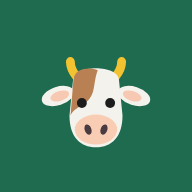
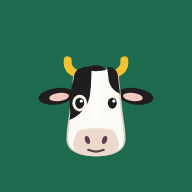
v2.8: gebe simgesi ve uygulama simgesi yeni inek başı
Claude-Session: https://claude.ai/code/session_017f4vncvokBe8tVfHc6Eyy9

Changed region(s): [[0.1875, 0.2812, 0.8125, 0.8438]]

diff --git a/index.html b/index.html
@@ -215,7 +215,7 @@ svg{fill:none;stroke:currentColor;stroke-width:1.8;stroke-linecap:round;stroke-l
 .sheet-body h2{font:600 22px/1 var(--display);letter-spacing:.03em;text-transform:uppercase;color:var(--fg);margin:0}
 #toast{position:fixed;left:50%;transform:translateX(-50%);bottom:calc(84px + env(safe-area-inset-bottom,0px));z-index:60;background:var(--fg);color:var(--bg);padding:10px 14px;border-radius:10px;font-size:14px;max-width:min(92vw,420px)}
 @media (prefers-reduced-motion:no-preference){.sheet-body{animation:up .18s ease-out}@keyframes up{from{transform:translateY(24px);opacity:.4}}}
-.gd details{border-top:1px solid var(--line);padding:8px 0}.gd summary{font-weight:700;cursor:pointer}.gd p{font-size:14px;line-height:1.5;margin:6px 0}.gd ol{padding-left:20px;margin:6px 0}.gd li{font-size:14px;line-height:1.5;margin:4px 0}.gd .tip{background:var(--surface2);border-radius:10px;padding:8px 10px;font-size:13px;line-height:1.45;margin:8px 0}.gd figure{margin:10px 0}.gd figure img{width:100%;max-width:340px;border-radius:10px;border:1px solid var(--line);display:block}.gd figcaption{font-size:12px;color:var(--muted);margin-top:4px}.gd ol{padding-left:20px;margin:6px 0}.gd li{font-size:14px;line-height:1.5;margin:4px 0}.gd .tip{background:var(--surface2);border-radius:10px;padding:8px 10px;font-size:13px;line-height:1.45;margin:8px 0}.gd figure{margin:10px 0}.gd figure img{width:100%;max-width:340px;border-radius:10px;border:1px solid var(--line);display:block}.gd figcaption{font-size:12px;color:var(--muted);margin-top:4px}.gd ol{padding-left:20px;margin:6px 0}.gd li{font-size:14px;line-height:1.5;margin:4px 0}.gd .tip{background:var(--surface2);border-radius:10px;padding:8px 10px;font-size:13px;line-height:1.45;margin:8px 0}.gd figure{margin:10px 0}.gd figure img{width:100%;max-width:340px;border-radius:10px;border:1px solid var(--line);display:block}.gd figcaption{font-size:12px;color:var(--muted);margin-top:4px}.gd ol{padding-left:20px;margin:6px 0}.gd li{font-size:14px;line-height:1.5;margin:4px 0}.gd .tip{background:var(--surface2);border-radius:10px;padding:8px 10px;font-size:13px;line-height:1.45;margin:8px 0}.gd figure{margin:10px 0}.gd figure img{width:100%;max-width:340px;border-radius:10px;border:1px solid var(--line);display:block}.gd figcaption{font-size:12px;color:var(--muted);margin-top:4px}.gd ol{padding-left:20px;margin:6px 0}.gd li{font-size:14px;line-height:1.5;margin:4px 0}.gd .tip{background:var(--surface2);border-radius:10px;padding:8px 10px;font-size:13px;line-height:1.45;margin:8px 0}.gd figure{margin:10px 0}.gd figure img{width:100%;max-width:340px;border-radius:10px;border:1px solid var(--line);display:block}.gd figcaption{font-size:12px;color:var(--muted);margin-top:4px}.gd ol{padding-left:20px;margin:6px 0}.gd li{font-size:14px;line-height:1.5;margin:4px 0}.gd .tip{background:var(--surface2);border-radius:10px;padding:8px 10px;font-size:13px;line-height:1.45;margin:8px 0}.gd figure{margin:10px 0}.gd figure img{width:100%;max-width:340px;border-radius:10px;border:1px solid var(--line);display:block}.gd figcaption{font-size:12px;color:var(--muted);margin-top:4px}.gd ol{padding-left:20px;margin:6px 0}.gd li{font-size:14px;line-height:1.5;margin:4px 0}.gd .tip{background:var(--surface2);border-radius:10px;padding:8px 10px;font-size:13px;line-height:1.45;margin:8px 0}.gd figure{margin:10px 0}.gd figure img{width:100%;max-width:340px;border-radius:10px;border:1px solid var(--line);display:block}.gd figcaption{font-size:12px;color:var(--muted);margin-top:4px}.gd ol{padding-left:20px;margin:6px 0}.gd li{font-size:14px;line-height:1.5;margin:4px 0}.gd .tip{background:var(--surface2);border-radius:10px;padding:8px 10px;font-size:13px;line-height:1.45;margin:8px 0}.gd figure{margin:10px 0}.gd figure img{width:100%;max-width:340px;border-radius:10px;border:1px solid var(--line);display:block}.gd figcaption{font-size:12px;color:var(--muted);margin-top:4px}.gd ol{padding-left:20px;margin:6px 0}.gd li{font-size:14px;line-height:1.5;margin:4px 0}.gd .tip{background:var(--surface2);border-radius:10px;padding:8px 10px;font-size:13px;line-height:1.45;margin:8px 0}.gd figure{margin:10px 0}.gd figure img{width:100%;max-width:340px;border-radius:10px;border:1px solid var(--line);display:block}.gd figcaption{font-size:12px;color:var(--muted);margin-top:4px}.gd ol{padding-left:20px;margin:6px 0}.gd li{font-size:14px;line-height:1.5;margin:4px 0}.gd .tip{background:var(--surface2);border-radius:10px;padding:8px 10px;font-size:13px;line-height:1.45;margin:8px 0}.gd figure{margin:10px 0}.gd figure img{width:100%;max-width:340px;border-radius:10px;border:1px solid var(--line);display:block}.gd figcaption{font-size:12px;color:var(--muted);margin-top:4px}.gd ol{padding-left:20px;margin:6px 0}.gd li{font-size:14px;line-height:1.5;margin:4px 0}.gd .tip{background:var(--surface2);border-radius:10px;padding:8px 10px;font-size:13px;line-height:1.45;margin:8px 0}.gd figure{margin:10px 0}.gd figure img{width:100%;max-width:340px;border-radius:10px;border:1px solid var(--line);display:block}.gd figcaption{font-size:12px;color:var(--muted);margin-top:4px}.gd ol{padding-left:20px;margin:6px 0}.gd li{font-size:14px;line-height:1.5;margin:4px 0}.gd .tip{background:var(--surface2);border-radius:10px;padding:8px 10px;font-size:13px;line-height:1.45;margin:8px 0}.gd figure{margin:10px 0}.gd figure img{width:100%;max-width:340px;border-radius:10px;border:1px solid var(--line);display:block}.gd figcaption{font-size:12px;color:var(--muted);margin-top:4px}.gd ol{padding-left:20px;margin:6px 0}.gd li{font-size:14px;line-height:1.5;margin:4px 0}.gd .tip{background:var(--surface2);border-radius:10px;padding:8px 10px;font-size:13px;line-height:1.45;margin:8px 0}.gd figure{margin:10px 0}.gd figure img{width:100%;max-width:340px;border-radius:10px;border:1px solid var(--line);display:block}.gd figcaption{font-size:12px;color:var(--muted);margin-top:4px}.gd ol{padding-left:20px;margin:6px 0}.gd li{font-size:14px;line-height:1.5;margin:4px 0}.gd .tip{background:var(--surface2);border-radius:10px;padding:8px 10px;font-size:13px;line-height:1.45;margin:8px 0}.gd figure{margin:10px 0}.gd figure img{width:100%;max-width:340px;border-radius:10px;border:1px solid var(--line);display:block}.gd figcaption{font-size:12px;color:var(--muted);margin-top:4px}.gd ol{padding-left:20px;margin:6px 0}.gd li{font-size:14px;line-height:1.5;margin:4px 0}.gd .tip{background:var(--surface2);border-radius:10px;padding:8px 10px;font-size:13px;line-height:1.45;margin:8px 0}.gd figure{margin:10px 0}.gd figure img{width:100%;max-width:340px;border-radius:10px;border:1px solid var(--line);display:block}.gd figcaption{font-size:12px;color:var(--muted);margin-top:4px}.gd ol{padding-left:20px;margin:6px 0}.gd li{font-size:14px;line-height:1.5;margin:4px 0}.gd .tip{background:var(--surface2);border-radius:10px;padding:8px 10px;font-size:13px;line-height:1.45;margin:8px 0}.gd figure{margin:10px 0}.gd figure img{width:100%;max-width:340px;border-radius:10px;border:1px solid var(--line);display:block}.gd figcaption{font-size:12px;color:var(--muted);margin-top:4px}.gd ol{padding-left:20px;margin:6px 0}.gd li{font-size:14px;line-height:1.5;margin:4px 0}.gd .tip{background:var(--surface2);border-radius:10px;padding:8px 10px;font-size:13px;line-height:1.45;margin:8px 0}.gd figure{margin:10px 0}.gd figure img{width:100%;max-width:340px;border-radius:10px;border:1px solid var(--line);display:block}.gd figcaption{font-size:12px;color:var(--muted);margin-top:4px}.gd ol{padding-left:20px;margin:6px 0}.gd li{font-size:14px;line-height:1.5;margin:4px 0}.gd .tip{background:var(--surface2);border-radius:10px;padding:8px 10px;font-size:13px;line-height:1.45;margin:8px 0}.gd figure{margin:10px 0}.gd figure img{width:100%;max-width:340px;border-radius:10px;border:1px solid var(--line);display:block}.gd figcaption{font-size:12px;color:var(--muted);margin-top:4px}.gd ol{padding-left:20px;margin:6px 0}.gd li{font-size:14px;line-height:1.5;margin:4px 0}.gd .tip{background:var(--surface2);border-radius:10px;padding:8px 10px;font-size:13px;line-height:1.45;margin:8px 0}.gd figure{margin:10px 0}.gd figure img{width:100%;max-width:340px;border-radius:10px;border:1px solid var(--line);display:block}.gd figcaption{font-size:12px;color:var(--muted);margin-top:4px}
+.gd details{border-top:1px solid var(--line);padding:8px 0}.gd summary{font-weight:700;cursor:pointer}.gd p{font-size:14px;line-height:1.5;margin:6px 0}.gd ol{padding-left:20px;margin:6px 0}.gd li{font-size:14px;line-height:1.5;margin:4px 0}.gd .tip{background:var(--surface2);border-radius:10px;padding:8px 10px;font-size:13px;line-height:1.45;margin:8px 0}.gd figure{margin:10px 0}.gd figure img{width:100%;max-width:340px;border-radius:10px;border:1px solid var(--line);display:block}.gd figcaption{font-size:12px;color:var(--muted);margin-top:4px}.gd ol{padding-left:20px;margin:6px 0}.gd li{font-size:14px;line-height:1.5;margin:4px 0}.gd .tip{background:var(--surface2);border-radius:10px;padding:8px 10px;font-size:13px;line-height:1.45;margin:8px 0}.gd figure{margin:10px 0}.gd figure img{width:100%;max-width:340px;border-radius:10px;border:1px solid var(--line);display:block}.gd figcaption{font-size:12px;color:var(--muted);margin-top:4px}.gd ol{padding-left:20px;margin:6px 0}.gd li{font-size:14px;line-height:1.5;margin:4px 0}.gd .tip{background:var(--surface2);border-radius:10px;padding:8px 10px;font-size:13px;line-height:1.45;margin:8px 0}.gd figure{margin:10px 0}.gd figure img{width:100%;max-width:340px;border-radius:10px;border:1px solid var(--line);display:block}.gd figcaption{font-size:12px;color:var(--muted);margin-top:4px}.gd ol{padding-left:20px;margin:6px 0}.gd li{font-size:14px;line-height:1.5;margin:4px 0}.gd .tip{background:var(--surface2);border-radius:10px;padding:8px 10px;font-size:13px;line-height:1.45;margin:8px 0}.gd figure{margin:10px 0}.gd figure img{width:100%;max-width:340px;border-radius:10px;border:1px solid var(--line);display:block}.gd figcaption{font-size:12px;color:var(--muted);margin-top:4px}.gd ol{padding-left:20px;margin:6px 0}.gd li{font-size:14px;line-height:1.5;margin:4px 0}.gd .tip{background:var(--surface2);border-radius:10px;padding:8px 10px;font-size:13px;line-height:1.45;margin:8px 0}.gd figure{margin:10px 0}.gd figure img{width:100%;max-width:340px;border-radius:10px;border:1px solid var(--line);display:block}.gd figcaption{font-size:12px;color:var(--muted);margin-top:4px}.gd ol{padding-left:20px;margin:6px 0}.gd li{font-size:14px;line-height:1.5;margin:4px 0}.gd .tip{background:var(--surface2);border-radius:10px;padding:8px 10px;font-size:13px;line-height:1.45;margin:8px 0}.gd figure{margin:10px 0}.gd figure img{width:100%;max-width:340px;border-radius:10px;border:1px solid var(--line);display:block}.gd figcaption{font-size:12px;color:var(--muted);margin-top:4px}.gd ol{padding-left:20px;margin:6px 0}.gd li{font-size:14px;line-height:1.5;margin:4px 0}.gd .tip{background:var(--surface2);border-radius:10px;padding:8px 10px;font-size:13px;line-height:1.45;margin:8px 0}.gd figure{margin:10px 0}.gd figure img{width:100%;max-width:340px;border-radius:10px;border:1px solid var(--line);display:block}.gd figcaption{font-size:12px;color:var(--muted);margin-top:4px}.gd ol{padding-left:20px;margin:6px 0}.gd li{font-size:14px;line-height:1.5;margin:4px 0}.gd .tip{background:var(--surface2);border-radius:10px;padding:8px 10px;font-size:13px;line-height:1.45;margin:8px 0}.gd figure{margin:10px 0}.gd figure img{width:100%;max-width:340px;border-radius:10px;border:1px solid var(--line);display:block}.gd figcaption{font-size:12px;color:var(--muted);margin-top:4px}.gd ol{padding-left:20px;margin:6px 0}.gd li{font-size:14px;line-height:1.5;margin:4px 0}.gd .tip{background:var(--surface2);border-radius:10px;padding:8px 10px;font-size:13px;line-height:1.45;margin:8px 0}.gd figure{margin:10px 0}.gd figure img{width:100%;max-width:340px;border-radius:10px;border:1px solid var(--line);display:block}.gd figcaption{font-size:12px;color:var(--muted);margin-top:4px}.gd ol{padding-left:20px;margin:6px 0}.gd li{font-size:14px;line-height:1.5;margin:4px 0}.gd .tip{background:var(--surface2);border-radius:10px;padding:8px 10px;font-size:13px;line-height:1.45;margin:8px 0}.gd figure{margin:10px 0}.gd figure img{width:100%;max-width:340px;border-radius:10px;border:1px solid var(--line);display:block}.gd figcaption{font-size:12px;color:var(--muted);margin-top:4px}.gd ol{padding-left:20px;margin:6px 0}.gd li{font-size:14px;line-height:1.5;margin:4px 0}.gd .tip{background:var(--surface2);border-radius:10px;padding:8px 10px;font-size:13px;line-height:1.45;margin:8px 0}.gd figure{margin:10px 0}.gd figure img{width:100%;max-width:340px;border-radius:10px;border:1px solid var(--line);display:block}.gd figcaption{font-size:12px;color:var(--muted);margin-top:4px}.gd ol{padding-left:20px;margin:6px 0}.gd li{font-size:14px;line-height:1.5;margin:4px 0}.gd .tip{background:var(--surface2);border-radius:10px;padding:8px 10px;font-size:13px;line-height:1.45;margin:8px 0}.gd figure{margin:10px 0}.gd figure img{width:100%;max-width:340px;border-radius:10px;border:1px solid var(--line);display:block}.gd figcaption{font-size:12px;color:var(--muted);margin-top:4px}.gd ol{padding-left:20px;margin:6px 0}.gd li{font-size:14px;line-height:1.5;margin:4px 0}.gd .tip{background:var(--surface2);border-radius:10px;padding:8px 10px;font-size:13px;line-height:1.45;margin:8px 0}.gd figure{margin:10px 0}.gd figure img{width:100%;max-width:340px;border-radius:10px;border:1px solid var(--line);display:block}.gd figcaption{font-size:12px;color:var(--muted);margin-top:4px}.gd ol{padding-left:20px;margin:6px 0}.gd li{font-size:14px;line-height:1.5;margin:4px 0}.gd .tip{background:var(--surface2);border-radius:10px;padding:8px 10px;font-size:13px;line-height:1.45;margin:8px 0}.gd figure{margin:10px 0}.gd figure img{width:100%;max-width:340px;border-radius:10px;border:1px solid var(--line);display:block}.gd figcaption{font-size:12px;color:var(--muted);margin-top:4px}.gd ol{padding-left:20px;margin:6px 0}.gd li{font-size:14px;line-height:1.5;margin:4px 0}.gd .tip{background:var(--surface2);border-radius:10px;padding:8px 10px;font-size:13px;line-height:1.45;margin:8px 0}.gd figure{margin:10px 0}.gd figure img{width:100%;max-width:340px;border-radius:10px;border:1px solid var(--line);display:block}.gd figcaption{font-size:12px;color:var(--muted);margin-top:4px}.gd ol{padding-left:20px;margin:6px 0}.gd li{font-size:14px;line-height:1.5;margin:4px 0}.gd .tip{background:var(--surface2);border-radius:10px;padding:8px 10px;font-size:13px;line-height:1.45;margin:8px 0}.gd figure{margin:10px 0}.gd figure img{width:100%;max-width:340px;border-radius:10px;border:1px solid var(--line);display:block}.gd figcaption{font-size:12px;color:var(--muted);margin-top:4px}.gd ol{padding-left:20px;margin:6px 0}.gd li{font-size:14px;line-height:1.5;margin:4px 0}.gd .tip{background:var(--surface2);border-radius:10px;padding:8px 10px;font-size:13px;line-height:1.45;margin:8px 0}.gd figure{margin:10px 0}.gd figure img{width:100%;max-width:340px;border-radius:10px;border:1px solid var(--line);display:block}.gd figcaption{font-size:12px;color:var(--muted);margin-top:4px}.gd ol{padding-left:20px;margin:6px 0}.gd li{font-size:14px;line-height:1.5;margin:4px 0}.gd .tip{background:var(--surface2);border-radius:10px;padding:8px 10px;font-size:13px;line-height:1.45;margin:8px 0}.gd figure{margin:10px 0}.gd figure img{width:100%;max-width:340px;border-radius:10px;border:1px solid var(--line);display:block}.gd figcaption{font-size:12px;color:var(--muted);margin-top:4px}.gd ol{padding-left:20px;margin:6px 0}.gd li{font-size:14px;line-height:1.5;margin:4px 0}.gd .tip{background:var(--surface2);border-radius:10px;padding:8px 10px;font-size:13px;line-height:1.45;margin:8px 0}.gd figure{margin:10px 0}.gd figure img{width:100%;max-width:340px;border-radius:10px;border:1px solid var(--line);display:block}.gd figcaption{font-size:12px;color:var(--muted);margin-top:4px}.gd ol{padding-left:20px;margin:6px 0}.gd li{font-size:14px;line-height:1.5;margin:4px 0}.gd .tip{background:var(--surface2);border-radius:10px;padding:8px 10px;font-size:13px;line-height:1.45;margin:8px 0}.gd figure{margin:10px 0}.gd figure img{width:100%;max-width:340px;border-radius:10px;border:1px solid var(--line);display:block}.gd figcaption{font-size:12px;color:var(--muted);margin-top:4px}.gd ol{padding-left:20px;margin:6px 0}.gd li{font-size:14px;line-height:1.5;margin:4px 0}.gd .tip{background:var(--surface2);border-radius:10px;padding:8px 10px;font-size:13px;line-height:1.45;margin:8px 0}.gd figure{margin:10px 0}.gd figure img{width:100%;max-width:340px;border-radius:10px;border:1px solid var(--line);display:block}.gd figcaption{font-size:12px;color:var(--muted);margin-top:4px}
 .cropc{width:100%;max-width:300px;aspect-ratio:1;border-radius:14px;touch-action:none;background:#000;display:block;margin:0 auto;cursor:grab}
 </style>
 
@@ -295,7 +295,7 @@ var IC={
   bull:'<path d="M8.4 7.4C5.6 7.4 3.4 5.8 2.8 2.8M15.6 7.4c2.8 0 5-1.6 5.6-4.6"/><path d="M8.2 9.6C6 9.2 4.2 9.8 3.4 11.2c.8 1.5 2.7 1.9 4.8 1.3M15.8 9.6c2.2-.4 4 .2 4.8 1.6-.8 1.5-2.7 1.9-4.8 1.3"/><path d="M9 7.4c2-.6 4-.6 6 0 .8 2.4.8 4.8.2 7-.3 1.2-.7 2-.9 3H9.7c-.2-1-.6-1.8-.9-3-.6-2.2-.6-4.6.2-7z"/><path d="M10.9 17.6h.01M13.1 17.6h.01M9.9 11.6h.01M14.1 11.6h.01" stroke-width="2.4"/><path d="M10.2 20.4a1.9 1.9 0 0 0 3.6 0"/>'
 };
 var EM={cow:'🐮',bull:'🐂',milk:'🥛',dry:'💤',preg:'🤰',syringe:'💉',cross:'🩺',ban:'⛔',flame:'🔥',exit:'🚪',star:'✨',hourglass:'⏳',heart:'🍼',plus:'➕',home:'🏠',tag:'🏷',feed:'🌾',save:'💾',bars:'📊'};
-var SVI={"sun":"<svg viewBox=\"0 0 64 64\" xmlns=\"http://www.w3.org/2000/svg\" aria-hidden=\"true\"><g stroke=\"#F2A81D\" stroke-width=\"4\" stroke-linecap=\"round\"><path d=\"M32 8v8\"/><path d=\"M13 16l5.5 5.5\"/><path d=\"M51 16l-5.5 5.5\"/><path d=\"M5 33h8\"/><path d=\"M59 33h-8\"/></g><path d=\"M16 42a16 16 0 0 1 32 0Z\" fill=\"#FFC93C\"/><path d=\"M16 42a16 16 0 0 1 32 0\" fill=\"none\" stroke=\"#E79A12\" stroke-width=\"2.5\"/><path d=\"M4 46h56\" stroke=\"#6FA35C\" stroke-width=\"4\" stroke-linecap=\"round\"/><path d=\"M12 54h40\" stroke=\"#9CC48A\" stroke-width=\"4\" stroke-linecap=\"round\"/></svg>","home":"<svg viewBox=\"0 0 64 64\" xmlns=\"http://www.w3.org/2000/svg\" aria-hidden=\"true\"><path d=\"M5 30L32 9l27 21v26H5Z\" fill=\"#C0432F\"/><path d=\"M5 30L32 9l27 21\" fill=\"none\" stroke=\"#8E2D1E\" stroke-width=\"3\" stroke-linejoin=\"round\"/><rect x=\"19\" y=\"31\" width=\"26\" height=\"25\" fill=\"#EBD8B0\"/><path d=\"M19 31h26v25H19ZM19 31l26 25M45 31L19 56\" fill=\"none\" stroke=\"#fff\" stroke-width=\"3\"/><circle cx=\"32\" cy=\"21\" r=\"3.5\" fill=\"#F4E3C0\"/></svg>","milk":"<svg viewBox=\"0 0 64 64\" xmlns=\"http://www.w3.org/2000/svg\" aria-hidden=\"true\"><path d=\"M22 8h20v8H22Z\" fill=\"#78909C\"/><path d=\"M19 16h26l5 14v26H14V30Z\" fill=\"#CFD8DC\"/><path d=\"M14 30h36v6H14Z\" fill=\"#fff\"/><rect x=\"14\" y=\"52\" width=\"36\" height=\"5\" rx=\"1.5\" fill=\"#90A4AE\"/><path d=\"M32 38c0 0-6 6.5-6 10a6 6 0 0 0 12 0c0-3.5-6-10-6-10Z\" fill=\"#4DA3F7\"/><path d=\"M19 16c-7 1-9 7-9 12M45 16c7 1 9 7 9 12\" fill=\"none\" stroke=\"#78909C\" stroke-width=\"3\" stroke-linecap=\"round\"/></svg>","preg":"<svg aria-hidden=\"true\" viewBox=\"-3 -6 70 70\" xmlns=\"http://www.w3.org/2000/svg\"><g transform=\"translate(32 60) scale(1) translate(-32 -60)\"><path d=\"M21 18C18.5 15 17.5 12.5 17.5 9.5\" stroke=\"#F2C230\" stroke-width=\"5\" stroke-linecap=\"round\" fill=\"none\"/><path d=\"M43 18C45.5 15 46.5 12.5 46.5 9.5\" stroke=\"#F2C230\" stroke-width=\"5\" stroke-linecap=\"round\" fill=\"none\"/><ellipse cx=\"10.5\" cy=\"29\" rx=\"9.5\" ry=\"5.2\" transform=\"rotate(-18 10.5 29)\" fill=\"#FBF3E4\"/><ellipse cx=\"11.5\" cy=\"29\" rx=\"5.5\" ry=\"2.8\" transform=\"rotate(-18 11.5 29)\" fill=\"#F7C9B3\"/><ellipse cx=\"53.5\" cy=\"29\" rx=\"9.5\" ry=\"5.2\" transform=\"rotate(18 53.5 29)\" fill=\"#FBF3E4\"/><ellipse cx=\"52.5\" cy=\"29\" rx=\"5.5\" ry=\"2.8\" transform=\"rotate(18 52.5 29)\" fill=\"#F7C9B3\"/><path d=\"M19 20C19 11 45 11 45 20L47 40C47 52 41 58 32 58C23 58 17 52 17 40Z\" fill=\"#FBF3E4\"/><path d=\"M19.2 20C19.5 13 29 12.5 33 14.5C30 22 32.5 29 25 33.5C21 36 18.5 37.5 17.6 40Z\" fill=\"#D9A66E\"/><ellipse cx=\"32\" cy=\"48\" rx=\"12\" ry=\"8.5\" fill=\"#F8CDB4\"/><ellipse cx=\"27.5\" cy=\"48\" rx=\"1.9\" ry=\"3\" transform=\"rotate(-20 27.5 48)\" fill=\"#4A3B40\"/><ellipse cx=\"36.5\" cy=\"48\" rx=\"1.9\" ry=\"3\" transform=\"rotate(20 36.5 48)\" fill=\"#4A3B40\"/><circle cx=\"24\" cy=\"33\" r=\"2.8\" fill=\"#1d1d1d\"/><circle cx=\"40\" cy=\"33\" r=\"2.8\" fill=\"#1d1d1d\"/><g transform=\"translate(36 34)\"><circle cx=\"13\" cy=\"13\" r=\"13\" fill=\"#fff\" stroke=\"#F3C1D3\" stroke-width=\"1.5\"/><path d=\"M13 21c-6-4.2-8.2-7.2-8.2-10a4.2 4.2 0 0 1 8.2-1.6A4.2 4.2 0 0 1 21.2 11c0 2.8-2.2 5.8-8.2 10Z\" fill=\"#F06292\"/></g></g></svg>","syringe":"<svg viewBox=\"8 8 48 48\" xmlns=\"http://www.w3.org/2000/svg\" aria-hidden=\"true\"><path d=\"M10 54l14-14\" stroke=\"#5E8DB8\" stroke-width=\"4\" stroke-linecap=\"round\"/><g transform=\"rotate(-45 32 32)\"><rect x=\"14\" y=\"24\" width=\"30\" height=\"14\" rx=\"3\" fill=\"#E3F2FD\" stroke=\"#5E8DB8\" stroke-width=\"3\"/><rect x=\"18\" y=\"27.5\" width=\"14\" height=\"7\" fill=\"#F4A6C0\"/><path d=\"M44 31h14\" stroke=\"#5E8DB8\" stroke-width=\"3.5\" stroke-linecap=\"round\"/><path d=\"M14 31H6M6 22v18\" stroke=\"#5E8DB8\" stroke-width=\"3.5\" stroke-linecap=\"round\"/></g></svg>","flame":"<svg viewBox=\"0 0 64 64\" xmlns=\"http://www.w3.org/2000/svg\" aria-hidden=\"true\"><path d=\"M32 59c-14 0-21-10-19-21 1-7 6-10 8-16 3 4 4 8 7 9 0-11 5-18 12-24 1 10 12 15 12 31 0 12-7 21-20 21Z\" fill=\"#F06292\"/><path d=\"M32 56c-8 0-12-5-11-12 1-4 4-7 6-10 2 3 3 5 5 5 1-5 3-9 7-12 1 7 5 9 5 17 0 8-4 12-12 12Z\" fill=\"#FF9DB5\"/></svg>","tag":"<svg viewBox=\"0 0 64 64\" xmlns=\"http://www.w3.org/2000/svg\" aria-hidden=\"true\"><path d=\"M22 6h20l3 15H19Z\" fill=\"#E0A800\"/><circle cx=\"32\" cy=\"13\" r=\"3.2\" fill=\"#fff\"/><path d=\"M32 21v7\" stroke=\"#B88A00\" stroke-width=\"3.5\"/><rect x=\"13\" y=\"28\" width=\"38\" height=\"28\" rx=\"9\" fill=\"#F2C230\" stroke=\"#C99A0B\" stroke-width=\"3\"/><path d=\"M22 42h20M22 49h12\" stroke=\"#B88A00\" stroke-width=\"3.5\" stroke-linecap=\"round\"/></svg>","exit":"<svg viewBox=\"0 0 64 64\" xmlns=\"http://www.w3.org/2000/svg\" aria-hidden=\"true\"><rect x=\"4\" y=\"18\" width=\"34\" height=\"28\" rx=\"3\" fill=\"#4DA3F7\"/><path d=\"M38 27h12l9 11v8H38Z\" fill=\"#2F6FB0\"/><path d=\"M42 30h7l5 8H42Z\" fill=\"#CFE8FF\"/><circle cx=\"17\" cy=\"48\" r=\"6.5\" fill=\"#37474F\"/><circle cx=\"17\" cy=\"48\" r=\"2.6\" fill=\"#CFD8DC\"/><circle cx=\"47\" cy=\"48\" r=\"6.5\" fill=\"#37474F\"/><circle cx=\"47\" cy=\"48\" r=\"2.6\" fill=\"#CFD8DC\"/></svg>"};
+var SVI={"sun":"<svg viewBox=\"0 0 64 64\" xmlns=\"http://www.w3.org/2000/svg\" aria-hidden=\"true\"><g stroke=\"#F2A81D\" stroke-width=\"4\" stroke-linecap=\"round\"><path d=\"M32 8v8\"/><path d=\"M13 16l5.5 5.5\"/><path d=\"M51 16l-5.5 5.5\"/><path d=\"M5 33h8\"/><path d=\"M59 33h-8\"/></g><path d=\"M16 42a16 16 0 0 1 32 0Z\" fill=\"#FFC93C\"/><path d=\"M16 42a16 16 0 0 1 32 0\" fill=\"none\" stroke=\"#E79A12\" stroke-width=\"2.5\"/><path d=\"M4 46h56\" stroke=\"#6FA35C\" stroke-width=\"4\" stroke-linecap=\"round\"/><path d=\"M12 54h40\" stroke=\"#9CC48A\" stroke-width=\"4\" stroke-linecap=\"round\"/></svg>","home":"<svg viewBox=\"0 0 64 64\" xmlns=\"http://www.w3.org/2000/svg\" aria-hidden=\"true\"><path d=\"M5 30L32 9l27 21v26H5Z\" fill=\"#C0432F\"/><path d=\"M5 30L32 9l27 21\" fill=\"none\" stroke=\"#8E2D1E\" stroke-width=\"3\" stroke-linejoin=\"round\"/><rect x=\"19\" y=\"31\" width=\"26\" height=\"25\" fill=\"#EBD8B0\"/><path d=\"M19 31h26v25H19ZM19 31l26 25M45 31L19 56\" fill=\"none\" stroke=\"#fff\" stroke-width=\"3\"/><circle cx=\"32\" cy=\"21\" r=\"3.5\" fill=\"#F4E3C0\"/></svg>","milk":"<svg viewBox=\"0 0 64 64\" xmlns=\"http://www.w3.org/2000/svg\" aria-hidden=\"true\"><path d=\"M22 8h20v8H22Z\" fill=\"#78909C\"/><path d=\"M19 16h26l5 14v26H14V30Z\" fill=\"#CFD8DC\"/><path d=\"M14 30h36v6H14Z\" fill=\"#fff\"/><rect x=\"14\" y=\"52\" width=\"36\" height=\"5\" rx=\"1.5\" fill=\"#90A4AE\"/><path d=\"M32 38c0 0-6 6.5-6 10a6 6 0 0 0 12 0c0-3.5-6-10-6-10Z\" fill=\"#4DA3F7\"/><path d=\"M19 16c-7 1-9 7-9 12M45 16c7 1 9 7 9 12\" fill=\"none\" stroke=\"#78909C\" stroke-width=\"3\" stroke-linecap=\"round\"/></svg>","preg":"<svg aria-hidden=\"true\" viewBox=\"-3 -6 70 70\" xmlns=\"http://www.w3.org/2000/svg\"><g transform=\"translate(32 60) scale(1) translate(-32 -60)\"><path d=\"M21 14C17 12.5 15 10 15.5 6\" stroke=\"#F2C230\" stroke-width=\"4.6\" stroke-linecap=\"round\" fill=\"none\"/><path d=\"M43 14C47 12.5 49 10 48.5 6\" stroke=\"#F2C230\" stroke-width=\"4.6\" stroke-linecap=\"round\" fill=\"none\"/><ellipse cx=\"9\" cy=\"27\" rx=\"10.5\" ry=\"4.8\" transform=\"rotate(-8 9 27)\" fill=\"#1F1D1D\"/><ellipse cx=\"10.5\" cy=\"27.4\" rx=\"5.8\" ry=\"2.4\" transform=\"rotate(-8 10.5 27.4)\" fill=\"#F2C9BE\"/><ellipse cx=\"55\" cy=\"27\" rx=\"10.5\" ry=\"4.8\" transform=\"rotate(8 55 27)\" fill=\"#1F1D1D\"/><ellipse cx=\"53.5\" cy=\"27.4\" rx=\"5.8\" ry=\"2.4\" transform=\"rotate(8 53.5 27.4)\" fill=\"#F2C9BE\"/><path d=\"M19 17C19 8.5 45 8.5 45 17L47 36C48 44 49.5 50 48.5 54C47.5 59 41 61.5 32 61.5C23 61.5 16.5 59 15.5 54C14.5 50 16 44 17 36Z\" fill=\"#FBFAF6\" stroke=\"#D9D1C6\" stroke-width=\"1\"/><path d=\"M19 17C19 10.6 24 9.3 31 9.6L29.6 17C28.4 23 29.6 29 24.5 35C21.5 38.5 18.5 40 16.6 40.8L17 36C16 30 17.3 22 19 17Z\" fill=\"#1F1D1D\"/><path d=\"M45 17C45 11 41 9.6 38.5 10L39.5 18C40.5 22 43 24 46 25.5L45 17Z\" fill=\"#1F1D1D\"/><path d=\"M29.4 10.2H34.6L35.6 40Q32 43 28.4 40Z\" fill=\"#FFFDF8\" opacity=\".95\"/><path d=\"M26 11.5C28 8 36 8 38 11.5C35 12.6 29 12.6 26 11.5Z\" fill=\"#1F1D1D\"/><path d=\"M20.5 49C20.5 44.5 43.5 44.5 43.5 49L45.5 54.5C45.5 59.5 40 62 32 62C24 62 18.5 59.5 18.5 54.5Z\" fill=\"#EBD9CB\"/><ellipse cx=\"27\" cy=\"52.5\" rx=\"1.4\" ry=\"2.4\" transform=\"rotate(-18 27 52.5)\" fill=\"#5A4046\"/><ellipse cx=\"37\" cy=\"52.5\" rx=\"1.4\" ry=\"2.4\" transform=\"rotate(18 37 52.5)\" fill=\"#5A4046\"/><path d=\"M27.5 58.2Q32 60.2 36.5 58.2\" stroke=\"#5A4046\" stroke-width=\"1.3\" fill=\"none\" stroke-linecap=\"round\"/><ellipse cx=\"22.5\" cy=\"31\" rx=\"4.3\" ry=\"4.9\" fill=\"#F7F3EA\"/><ellipse cx=\"22.5\" cy=\"31\" rx=\"2.6\" ry=\"3.2\" fill=\"#1d1d1d\"/><ellipse cx=\"41.5\" cy=\"31\" rx=\"2.6\" ry=\"3.2\" fill=\"#1d1d1d\"/><circle cx=\"23.4\" cy=\"29.8\" r=\".95\" fill=\"#fff\"/><circle cx=\"42.4\" cy=\"29.8\" r=\".95\" fill=\"#fff\"/><circle cx=\"53\" cy=\"52\" r=\"10.5\" fill=\"#fff\" stroke=\"#F2C4D4\" stroke-width=\"1.5\"/><path d=\"M53 59.5C46.5 55 45 51.5 45 49.2a4.1 4.1 0 0 1 8-1.4a4.1 4.1 0 0 1 8 1.4c0 2.3-1.5 5.8-8 10.3Z\" fill=\"#E8457C\"/></g></svg>","syringe":"<svg viewBox=\"8 8 48 48\" xmlns=\"http://www.w3.org/2000/svg\" aria-hidden=\"true\"><path d=\"M10 54l14-14\" stroke=\"#5E8DB8\" stroke-width=\"4\" stroke-linecap=\"round\"/><g transform=\"rotate(-45 32 32)\"><rect x=\"14\" y=\"24\" width=\"30\" height=\"14\" rx=\"3\" fill=\"#E3F2FD\" stroke=\"#5E8DB8\" stroke-width=\"3\"/><rect x=\"18\" y=\"27.5\" width=\"14\" height=\"7\" fill=\"#F4A6C0\"/><path d=\"M44 31h14\" stroke=\"#5E8DB8\" stroke-width=\"3.5\" stroke-linecap=\"round\"/><path d=\"M14 31H6M6 22v18\" stroke=\"#5E8DB8\" stroke-width=\"3.5\" stroke-linecap=\"round\"/></g></svg>","flame":"<svg viewBox=\"0 0 64 64\" xmlns=\"http://www.w3.org/2000/svg\" aria-hidden=\"true\"><path d=\"M32 59c-14 0-21-10-19-21 1-7 6-10 8-16 3 4 4 8 7 9 0-11 5-18 12-24 1 10 12 15 12 31 0 12-7 21-20 21Z\" fill=\"#F06292\"/><path d=\"M32 56c-8 0-12-5-11-12 1-4 4-7 6-10 2 3 3 5 5 5 1-5 3-9 7-12 1 7 5 9 5 17 0 8-4 12-12 12Z\" fill=\"#FF9DB5\"/></svg>","tag":"<svg viewBox=\"0 0 64 64\" xmlns=\"http://www.w3.org/2000/svg\" aria-hidden=\"true\"><path d=\"M22 6h20l3 15H19Z\" fill=\"#E0A800\"/><circle cx=\"32\" cy=\"13\" r=\"3.2\" fill=\"#fff\"/><path d=\"M32 21v7\" stroke=\"#B88A00\" stroke-width=\"3.5\"/><rect x=\"13\" y=\"28\" width=\"38\" height=\"28\" rx=\"9\" fill=\"#F2C230\" stroke=\"#C99A0B\" stroke-width=\"3\"/><path d=\"M22 42h20M22 49h12\" stroke=\"#B88A00\" stroke-width=\"3.5\" stroke-linecap=\"round\"/></svg>","exit":"<svg viewBox=\"0 0 64 64\" xmlns=\"http://www.w3.org/2000/svg\" aria-hidden=\"true\"><rect x=\"4\" y=\"18\" width=\"34\" height=\"28\" rx=\"3\" fill=\"#4DA3F7\"/><path d=\"M38 27h12l9 11v8H38Z\" fill=\"#2F6FB0\"/><path d=\"M42 30h7l5 8H42Z\" fill=\"#CFE8FF\"/><circle cx=\"17\" cy=\"48\" r=\"6.5\" fill=\"#37474F\"/><circle cx=\"17\" cy=\"48\" r=\"2.6\" fill=\"#CFD8DC\"/><circle cx=\"47\" cy=\"48\" r=\"6.5\" fill=\"#37474F\"/><circle cx=\"47\" cy=\"48\" r=\"2.6\" fill=\"#CFD8DC\"/></svg>"};
 var ALIAS={dry:'h:Kuru'};
 var ic=function(n){n=ALIAS[n]||n;if(n.indexOf('h:')===0&&HEADS[n.slice(2)])return '<span class="em svgi" aria-hidden="true">'+HEADS[n.slice(2)]+'</span>';if(SVI[n])return '<span class="em svgi" aria-hidden="true">'+SVI[n]+'</span>';return EM[n]?'<span class="em" aria-hidden="true">'+EM[n]+'</span>':'<svg viewBox="0 0 24 24" aria-hidden="true">'+(IC[n]||'')+'</svg>'};
 function aLbl(a){return (a.name||a.tag||'İsimsiz')+((a.name&&a.tag)?' · '+a.tag:'')}
@@ -882,8 +882,9 @@ function viewReport(){
   h+='<div class="card"><h3>Excel dosyası olarak indir</h3><p class="muted" style="margin-top:0">CSV dosyaları Excel ile açılır.</p><div class="row-actions"><button class="btn" data-act="csvAnimals"'+(dlCap?'':' disabled')+'>Hayvan listesi</button><button class="btn" data-act="csvMilk"'+(dlCap?'':' disabled')+'>Süt kayıtları ('+(repPeriod==='ay'?'bu ay':repPeriod==='3ay'?'3 ay':'1 yıl')+')</button></div>'+(dlCap?'':'<p class="muted" style="margin-bottom:0">Bu görünümde dosya indirme kapalı.</p>')+'</div>';
   return h+viewBackup()+viewNew()+viewGuide();
 }
-var APP_VER='2.7';
+var APP_VER='2.8';
 var CHANGES=[
+ ['2.8','Gebe simgesi yeni inek başıyla yenilendi. Uygulama simgesi de yeni inek başı oldu (ana ekrandaki simge için kısayolu silip yeniden eklemek gerekir).'],
  ['2.7','İnek başı simgeleri yenilendi: uzun yüz, soluk burun, yatay kulaklar. Sağmal siyah-beyaz, buzağı ve boğa daha gerçekçi.'],
  ['2.6','Yeni eklenen fotoğraf kırpıldıktan sonra kendiliğinden profil resmi olur. Başka bir fotoğrafı profil yapmak için ona dokunup "Profil fotoğrafı yap" demen yeter.'],
  ['2.5','Fotoğraf eklerken kare olarak kırpma ekranı açılır (sürükle ve büyüt). Fotoğraflar küçük boyutta kaydedilir, uygulama ve yedek dosyası şişmez.'],
